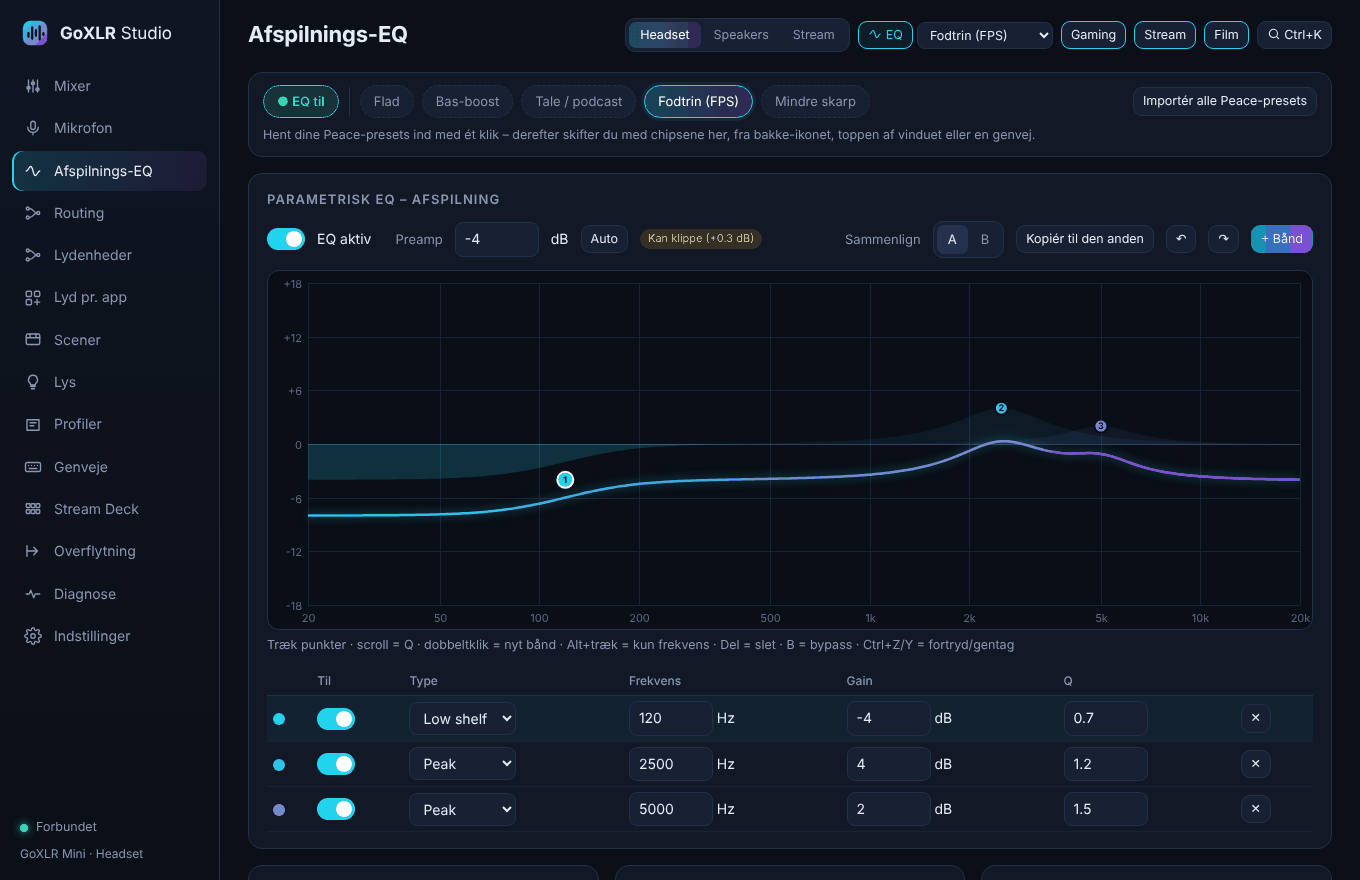
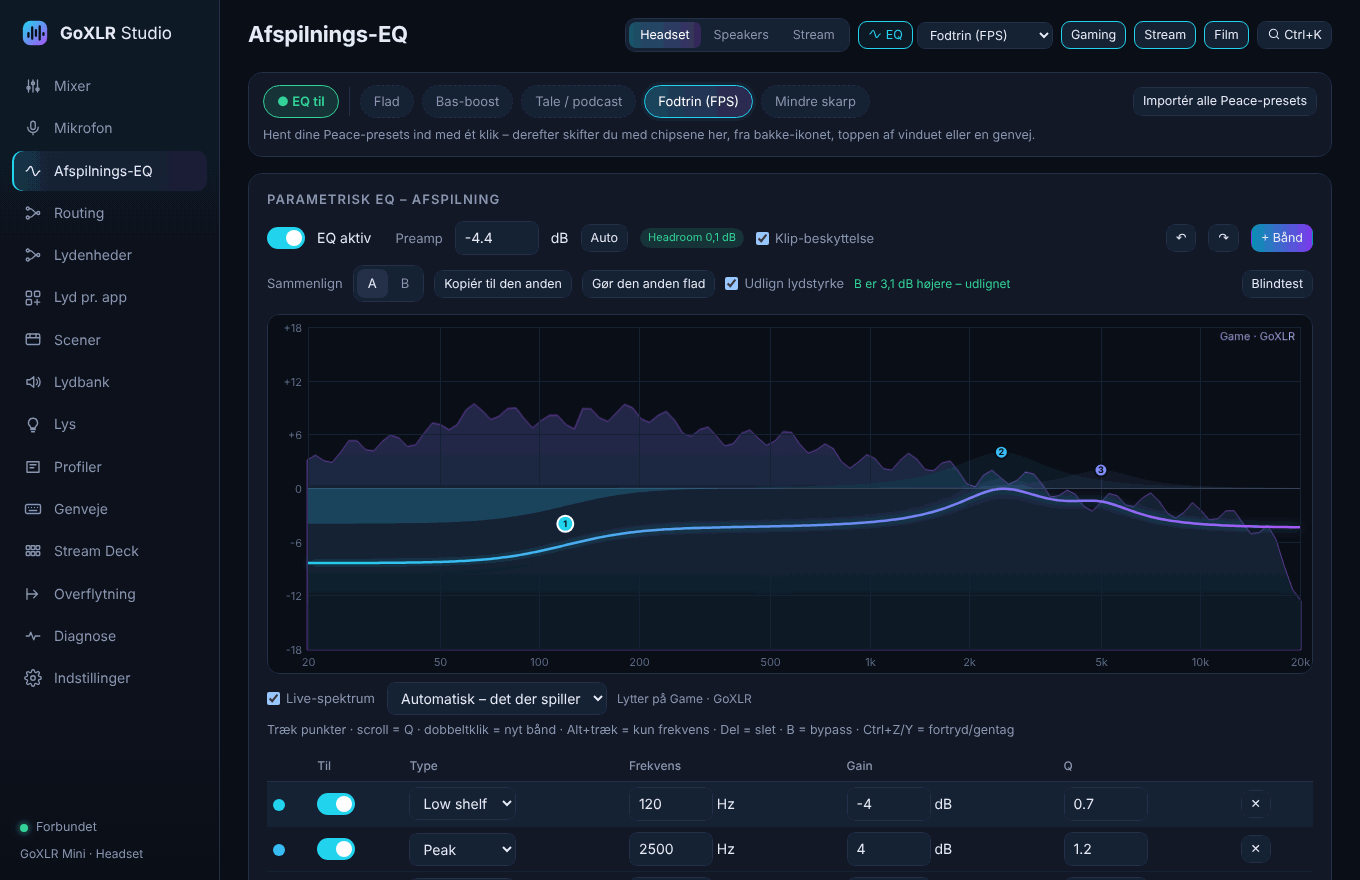
Tillæg 2 (EQ): README og skærmbillede; demoens spektrum følger VU-metrene
- README: live-spektrum, A/B ved samme lydstyrke, blindtest, klip-beskyttelse.
- Nyt skærmbillede af Afspilnings-EQ (256 farver).
- Browser-demo: alle udgange, der bevæger sig på VU-metrene, har et spektrum
  (før kunne "Automatisk" vælge Game, der var stille i spektret).
- Intet spektrum tegnes, når alt er stille (ingen streg i bunden).

Claude-Session: https://claude.ai/code/session_01Gb4jBcjq8N1kApyY6GBwh1

diff --git a/public/js/native.js b/public/js/native.js
@@ -455,8 +455,11 @@ export async function discordRunning() {
 export async function spectrumRead(device) {
   if (isNative()) return invoke('spectrum_read', { device: device || null });
   const { demoSpectrum, SPECTRUM_BANDS, SPECTRUM_FLOOR } = await import('./spectrum.js');
-  const playing = !device || device === 'out-goxlr-music';
-  return { device: device || '', rate: 48000, playing, error: null, bands: playing ? demoSpectrum(performance.now() / 1000) : new Array(SPECTRUM_BANDS).fill(SPECTRUM_FLOOR) };
+  // The same outputs that move on the demo's VU meters (audioLevels below), the quieter ones lower.
+  const offset = { 'out-goxlr-music': 0, 'out-goxlr-game': -4, 'out-goxlr-system': -9, 'out-goxlr-chat': -13 }[device || 'out-goxlr-music'];
+  const playing = offset !== undefined;
+  const t = performance.now() / 1000 + (offset || 0);
+  return { device: device || '', rate: 48000, playing, error: null, bands: playing ? demoSpectrum(t).map((v) => v + offset) : new Array(SPECTRUM_BANDS).fill(SPECTRUM_FLOOR) };
 }
 
 // Peak level (0–1) per audio endpoint, for the VU meters.

diff --git a/public/js/eqgraph.js b/public/js/eqgraph.js
@@ -135,7 +135,7 @@ export class EqGraph {
     const g = c.getContext('2d');
     g.setTransform(dpr, 0, 0, dpr, 0, 0);
     g.clearRect(0, 0, W, H);
-    if (!sp?.db?.length) return;
+    if (!sp?.db?.length || Math.max(...sp.db) <= lo) return;
     const p = this.pad();
     const bottom = H - p.b;
     const yS = (db) => p.t + (1 - Math.min(Math.max((db - lo) / (hi - lo), 0), 1)) * (bottom - p.t);

diff --git a/README.md b/README.md
@@ -34,7 +34,10 @@ Kanalerne fra din GoXLR med samme LED-farver som på hardwaren, et VU-meter ved 
 
 ![Afspilnings-EQ](docs/screenshots/afspilnings-eq.png)
 
-- Parametrisk EQ med en kurve, du trækker i, A/B-sammenligning, fortryd/gentag og advarsel, hvis lyden kan klippe
+- Parametrisk EQ med en kurve, du trækker i, og fortryd/gentag
+- **Live-spektrum** bag kurven: du ser, hvor musikken eller spillet har sin energi, mens du stiller på EQ'en
+- **A/B ved samme lydstyrke:** den højeste af A og B sænkes, så du hører forskellen i klang og ikke bare i lydstyrke. Med **blindtest** hører du dem som X og Y uden at vide, hvilken er hvilken
+- **Klip-beskyttelse og headroom:** appen regner på hele kæden (EQ, Loudness og Crossfeed) og sænker selv lyden, hvis den ellers ville forvrænge. "Auto" sætter preamp lige under grænsen
 - Presets, også dine gamle Peace/Equalizer APO-presets, som importeres med ét klik
 - AutoEQ-søgning, der finder korrektion til netop dine hovedtelefoner
 - Crossfeed og loudness til hovedtelefoner
